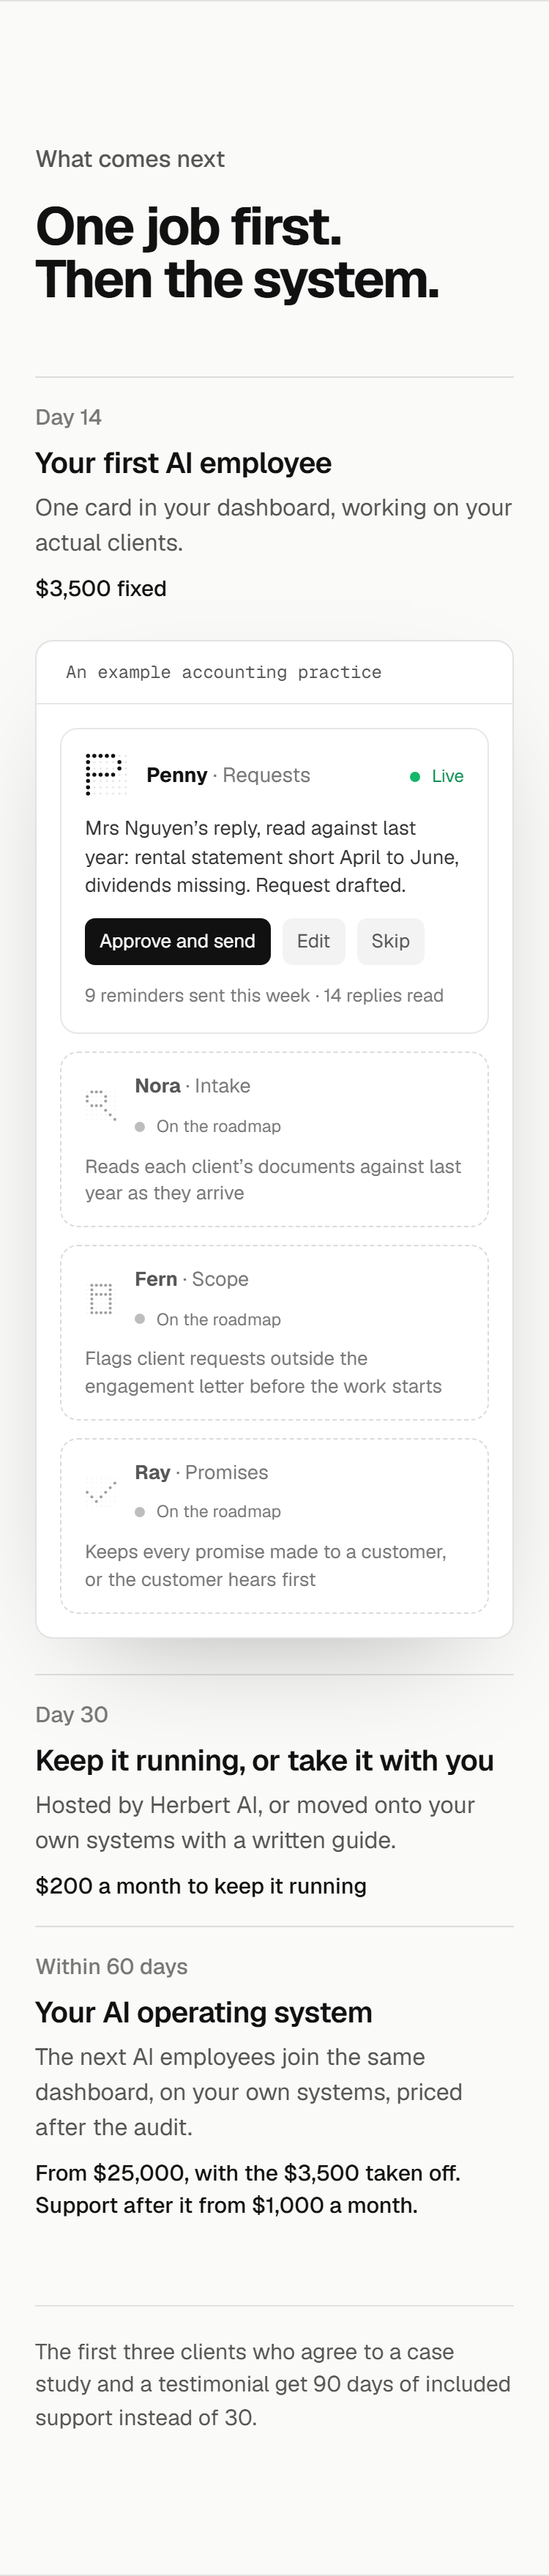
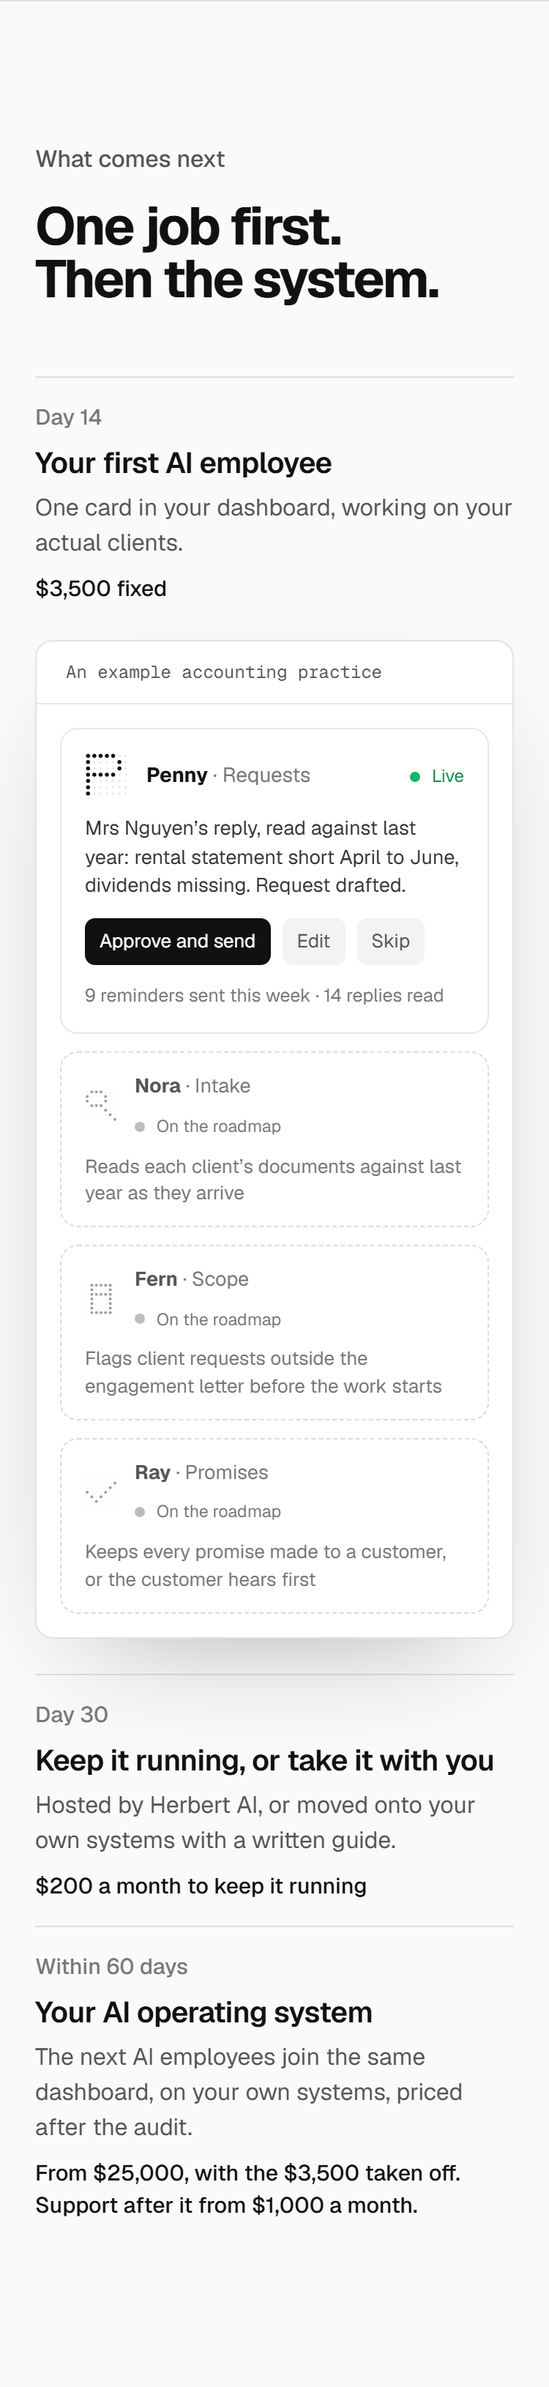
drop the first-three offer from /pilot and /pricing, section 5 done
The Proof lane (live 2 Nov) fills the three testimonial places privately on
its own terms, so the public 90-day line came off both pages. Stage titles
balance so "you" no longer sits alone at 360.

diff --git a/herbertai-website/src/app/components/site/AfterPilot.js b/herbertai-website/src/app/components/site/AfterPilot.js
@@ -33,13 +33,12 @@ export const QUEUED = [
 ]
 
 export const FOOT = 'Support after the full build is from $1,000 a month. The first three clients who agree to a case study and a testimonial get 90 days of included support instead of 30.'
-export const FIRST_THREE = 'The first three clients who agree to a case study and a testimonial get 90 days of included support instead of 30.'
 
 function Stages({ items }) {
   return items.map(([w, t, b, p]) => (
     <li key={t} className="border-t border-[#111]/12 py-4">
       <p className="text-[15px] font-medium text-[#777]">{w}</p>
-      <h3 className="mt-1 text-[20px] font-semibold tracking-[-0.015em]">{t}</h3>
+      <h3 className="mt-1 text-[20px] font-semibold tracking-[-0.015em] text-balance">{t}</h3>
       <p className="mt-1 text-[16px] leading-[1.5] text-[#555] text-pretty">{b}</p>
       <p className="mt-2 text-[15px] font-medium text-pretty">{p}</p>
     </li>
@@ -105,9 +104,11 @@ export function Dashboard({ queued = QUEUED, jobs = false, twoLive = false }) {
 // first stage). Laptops always put the stages beside the dashboard.
 // The page renders the defaults. Will, 16 Nov 2026, the details ("1, 2, 2, 3"):
 // three stages kept, each queued employee says its job, support moves into the
-// third stage's price with the first three alone under, and on phones the
-// dashboard comes straight after Day 14.
-export default function AfterPilot({ stages = [STAGE.day14, STAGE.day30, STAGE.osCare], foot = FIRST_THREE, order = 'split', dash = { jobs: true } }) {
+// third stage's price, and on phones the dashboard comes straight after Day 14.
+// No line under (Will, 16 Nov 2026, "Drop it from both"): the first-three
+// offer came off /pilot and /pricing while the Proof lane (2 Nov 2026) fills
+// the three testimonial places privately on its own terms.
+export default function AfterPilot({ stages = [STAGE.day14, STAGE.day30, STAGE.osCare], foot = null, order = 'split', dash = { jobs: true } }) {
   return (
     <>
       <div className="mt-12 grid lg:grid-cols-[0.8fr_1.2fr] gap-x-14 gap-y-10 items-start">

diff --git a/herbertai-website/src/app/pricing/page.js b/herbertai-website/src/app/pricing/page.js
@@ -39,7 +39,6 @@ const rungs = [
       'One AI employee built for one job, working on your actual clients in 14 days, or it is free.',
       'The full $3,500 comes off a bigger build signed within 60 days.',
       'The first 30 days of hosting, support and AI running costs are included. After that: go ahead with the build, keep it running for $200 a month, or have it moved onto your own systems with a written guide. If no choice is made by day 30 it is paused and your data is sent to you.',
-      'Founding clients: the first three clients who agree to a case study and a testimonial get 90 days of included support instead of 30.',
     ],
   },
   {

diff --git a/herbertai-website/docs/design/design-pass-site-2026-09.md b/herbertai-website/docs/design/design-pass-site-2026-09.md
@@ -2358,7 +2358,7 @@ memory records the third slip. From here /pilot runs section by section:
 | 2. The written page | [x] | [x] | [x] | [x] | [x] | Done 22 Oct 2026: the live sheet, text centred against it, no line under the heading, label kept, the link under the sheet on phones |
 | 3. How it works | [x] | [x] | [x] | [x] | [x] | Done 30 Oct 2026: "Your first AI employee in four steps." over four stops, each its time and its title only (no rows, no prices), the second stop "Two business days" |
 | 4. What it fixes | [x] | [x] | [x] | [x] | [x] | Done 4 Nov 2026 after the redo (Will: "B"): today’s six jobs and sentences, each under an employee that does that job; fit check, words re-read and tidy all recorded below |
-| 5. What comes next (was After the pilot) | [x] | [x] | [x] | [x] | [~] | Details built 16 Nov 2026 (Will: "1,2,2,3"); one claim to settle before it closes: the first-three line conflicts with the Proof lane (live 2 Nov), Will’s call |
+| 5. What comes next (was After the pilot) | [x] | [x] | [x] | [x] | [x] | Details built 16 Nov 2026 (Will: "1,2,2,3"); the first-three line dropped from /pilot and /pricing while the Proof lane runs (Will: "Drop it from both"). Done 16 Nov |
 | 6. Questions | [ ] | [ ] | [ ] | [x] | [ ] | Built from the skeleton only |
 | 7. Back to the form | [ ] | [ ] | [ ] | [x] | [ ] | Built from the skeleton only |
 
@@ -3163,7 +3163,7 @@ eslint clean. Sheet refreshed: `design-pass-site-2026-11-03-pilot-fixes-built.pn
 Section 4 is done.
 Will (16 Nov 2026): "Recommended: 1,2,2,3". Section 5’s details: the three stages kept, each queued employee says its job, support moves into the third stage’s price with the first three alone under, and on phones the dashboard comes straight after Day 14.
 
-## [~] /pilot section 5, What comes next: the details built, one claim open (16 Nov 2026)
+## [x] /pilot section 5, What comes next: the details built, done (16 Nov 2026)
 
 Built as the component’s defaults (the page is a server component and cannot
 take data from the client module): the three stages kept; each queued
@@ -3192,3 +3192,16 @@ then $200 a month or a handover, and closes when the third testimonial is in.
 Both describe "the first three", on different terms. Which stands is Will’s
 call; the section closes once it is settled, with /pricing changed the same
 way.
+
+Will (16 Nov 2026): "Drop it from both". The line came off section 5 (the
+component's line under now defaults to none) and the "Founding clients" line
+off /pricing's second rung, which now ends on the day 30 choice. Nothing else
+on the site states the offer (searched src and public). Verified on /pilot and
+/pricing at 1440, 1280, 1024, 375, 360 and 320: neither page says "first
+three" or "founding client", no overflow, no page errors. The tidy re-measure
+found one stranded word the 16 Nov check had missed, "you" alone under "Keep
+it running, or take it with" at 360; the stage titles now balance, and section
+5 has no single-word last line at any of the six widths. Section 5 is done.
+For /pricing's own pass, not touched here: its rung titles "Your first AI
+employee" and "AI operating system" leave one word on the second line at 1440,
+1280, 1024 and 320.

diff --git a/herbertai-website/docs/design/CHARTER.md b/herbertai-website/docs/design/CHARTER.md
@@ -246,7 +246,9 @@ moves. As built, 30 Oct 2026, numbered on the page in
    60 days) with their prices, support in the third, beside the dashboard
    that employee ships in, the next ones queued in it with their jobs; on
    phones the dashboard follows Day 14. Built 30 Oct (Will: "B, dashboard"),
-   details 16 Nov ("1,2,2,3"); the first-three line under it is open.
+   details 16 Nov ("1,2,2,3"), no line under: the first-three offer came
+   off /pilot and /pricing while the Proof lane runs ("Drop it from both").
+   Done 16 Nov.
 6. Questions: "Before you book." and eight questions. Built from the skeleton;
    words settled by the tone pass and the cold read; its own options and
    details pass not yet run.
